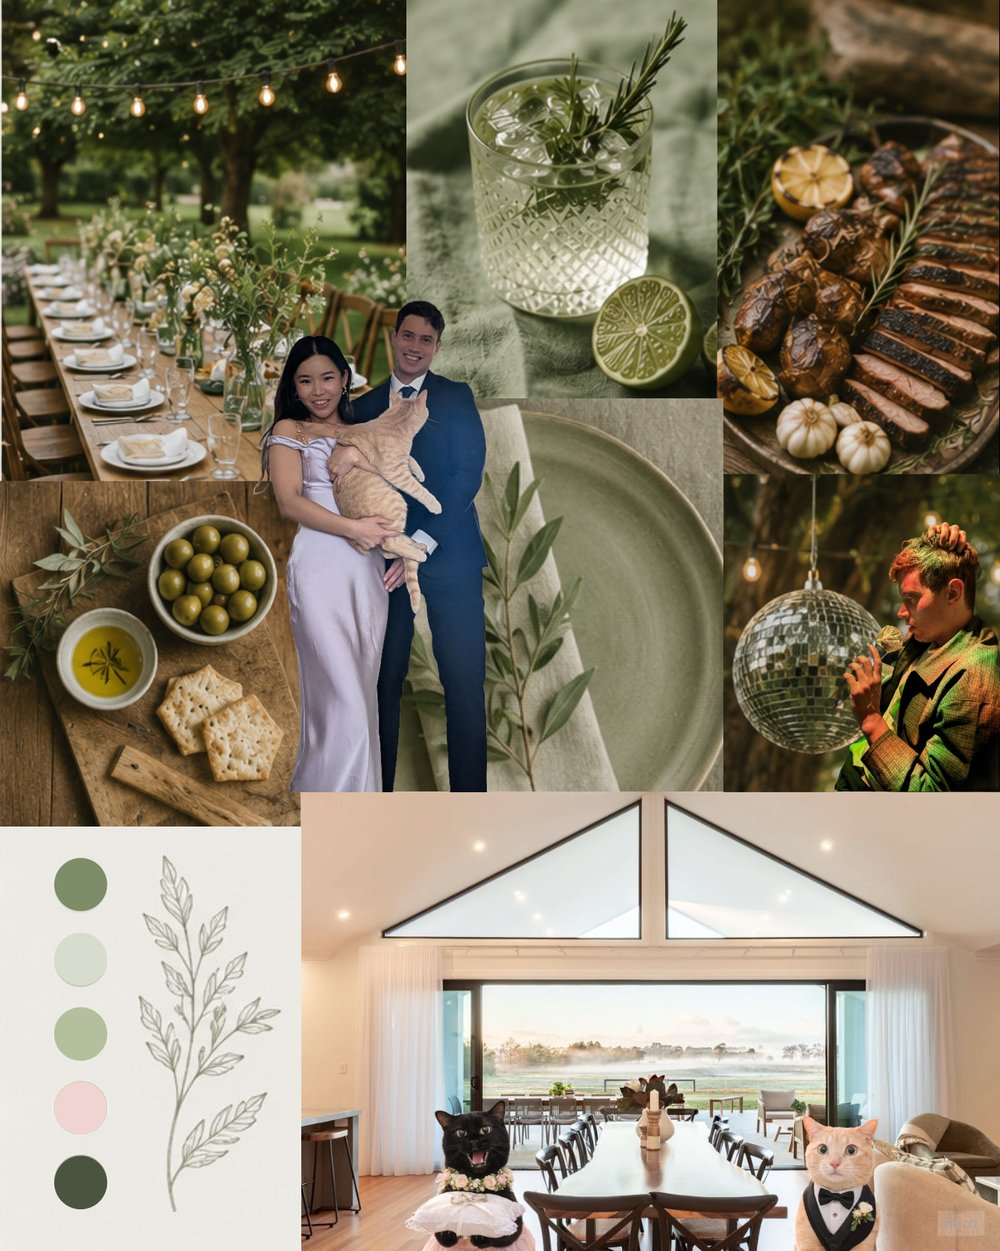
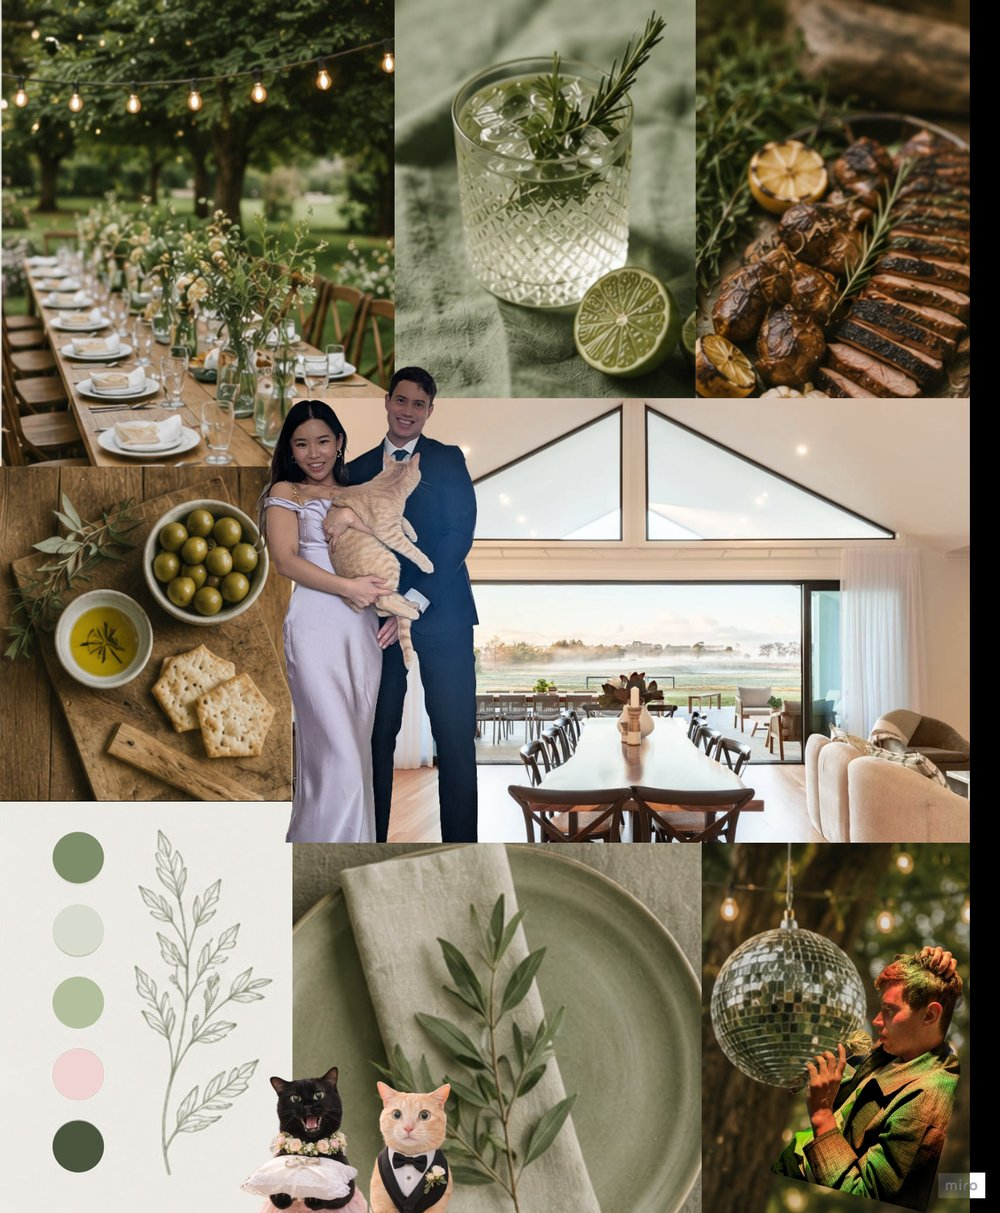
Arch-clip the mood board; lead invitation with the party
- Clip the mood board's white frame into an arch (cathedral-window)
- Update to the latest mood board image (web-optimized)
- Reword The Invitation: lead with "You're invited to the wedding party"
  + details in one bold paragraph; ceremony-elsewhere note in smaller text

diff --git a/index.html b/index.html
@@ -155,16 +155,20 @@ body::after{
 .intro{max-width:1300px}
 .intro-grid{display:grid;grid-template-columns:1fr clamp(300px,35%,440px);gap:clamp(36px,5vw,80px);align-items:start}
 .intro-copy{min-width:0}
-/* clean white mat frame (gallery / cut-out look) */
+/* white mat frame, clipped into an arch */
 .intro-board{margin:0;background:#fff;padding:clamp(12px,1.2vw,20px);
+  border-radius:50% 50% 6px 6px / 33% 33% 6px 6px;
   box-shadow:0 30px 70px -46px rgba(31,28,21,.5), 0 8px 22px -14px rgba(31,28,21,.26)}
-.intro-board img{display:block;width:100%;height:auto;box-shadow:0 0 0 1px rgba(31,28,21,.1)}
+.intro-board img{display:block;width:100%;height:auto;
+  border-radius:50% 50% 4px 4px / 31% 31% 4px 4px;
+  box-shadow:0 0 0 1px rgba(31,28,21,.08)}
 @media(max-width:860px){
   .intro-grid{grid-template-columns:1fr;gap:clamp(34px,7vw,52px)}
   .intro-board{max-width:460px}
 }
 .intro .lede{font-size:clamp(1.75rem,4.6vw,4rem);line-height:1.07;font-weight:700;letter-spacing:-.02em}
 .intro .lede em{font-family:'Fraunces',serif;font-style:italic;font-weight:400;color:var(--red)}
+.intro .sub em{font-family:'Fraunces',serif;font-style:italic;color:var(--red)}
 .intro .sub{margin-top:clamp(22px,3vw,38px);max-width:560px;
   font-size:clamp(1rem,1.5vw,1.18rem);line-height:1.75;color:var(--ink-soft)}
 /* sage highlighter for key words */
@@ -300,9 +304,8 @@ body::after{
   <span class="chapter sr">The Invitation</span>
   <div class="intro-grid">
     <div class="intro-copy">
-      <p class="lede sr s2">We're keeping the actual ceremony tiny and private, just the two of us and a couple of witnesses. By the time you see us, we'll already be <em>Mr &amp; Mrs Ewart</em>.</p>
-      <p class="sub sr s3">We're thinking <span class="hl">live music</span>, free-flowing wine and cocktails, lawn games, a BBQ, and eventually a <span class="hl">dance floor</span>. That's the plan, anyway.</p>
-      <p class="sub sr s4">But if the day decides to do its own thing, we're completely fine with that too. As long as we have <span class="hl">you all there</span>, we know it'll be a day we'll remember.</p>
+      <p class="lede sr s2">You're invited to the wedding party — <span class="hl">live music</span>, free-flowing wine and cocktails, lawn games, a BBQ, and eventually a <span class="hl">dance floor</span>. That's the plan, anyway; but if the day decides to do its own thing, we're completely fine with that too. As long as we have <span class="hl">you all there</span>, we know it'll be a day we'll remember.</p>
+      <p class="sub sr s3">The ceremony itself is just the two of us and a couple of witnesses, held quietly elsewhere — by the time you see us, we'll already be <em>Mr &amp; Mrs Ewart</em>.</p>
     </div>
     <figure class="intro-board sr s2">
       <img src="docs/moodboard-final.jpg" loading="lazy" alt="A mood board for the day — garden party, food, dancing and the cats">
